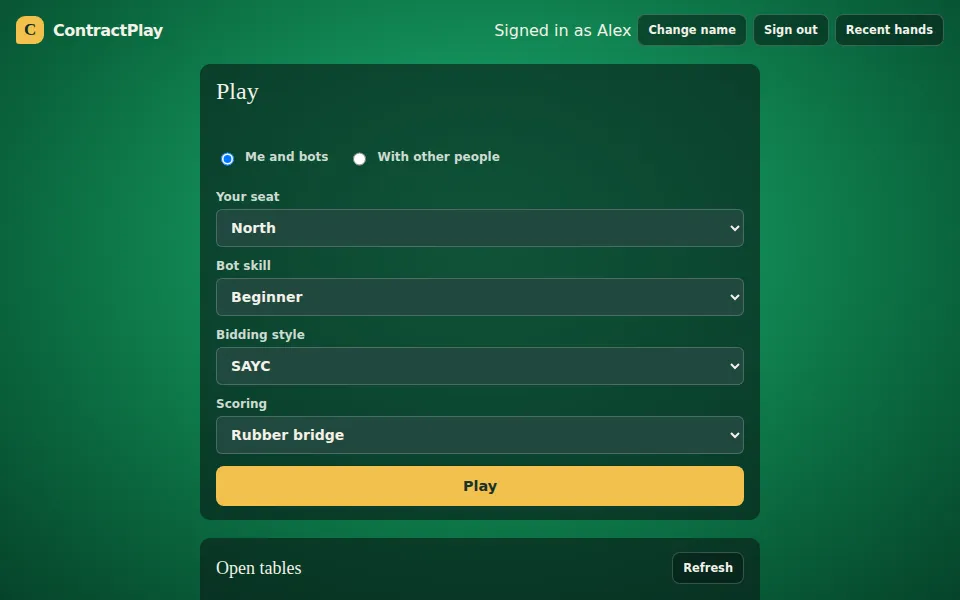
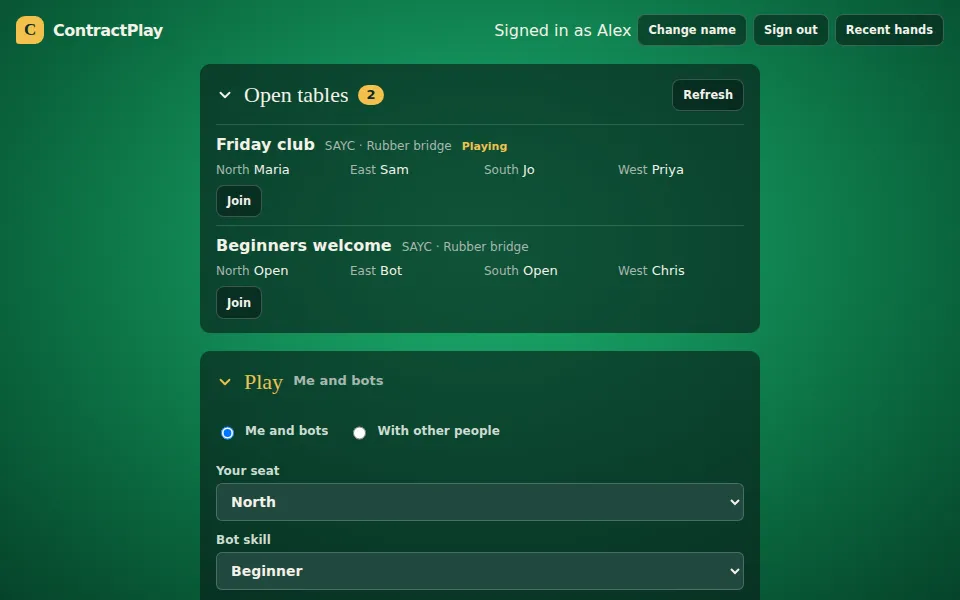
Put Open tables above Play in the lobby, both collapsed to their headers

diff --git a/apps/client/src/online/Lobby.tsx b/apps/client/src/online/Lobby.tsx
@@ -1,4 +1,4 @@
-import { useCallback, useEffect, useRef, useState } from "react";
+import { useCallback, useEffect, useRef, useState, type ReactNode } from "react";
 import { loadSoloData, type StorageLike } from "@contractplay/persistence";
 import { MAX_PLAYER_NAME, type SeatInfo, type TableScoring, type TableStyle, type TableSummary } from "@contractplay/protocol";
 import { seatNames, seats } from "../table/labels.js";
@@ -42,6 +42,8 @@ export type LobbyProps = {
   onRecentHands(): void;
   api?: LobbyApi;
   auth?: { currentAccount: typeof currentAccount; requestMagicLink: typeof requestMagicLink; signOut: typeof signOut; updateDisplayName?: typeof updateDisplayName; syncHistory?: typeof syncOnlineHands };
+  /** Opens Open tables and Play from the start; both are collapsed to their headers otherwise. */
+  expandedPanels?: boolean;
 };
 
 const defaultApi: LobbyApi = { listTables: defaultListTables, createTable: defaultCreateTable, createSession: defaultCreateSession };
@@ -58,7 +60,7 @@ function seatLabel(seat: SeatInfo): string {
 
 const defaultAuth = { currentAccount, requestMagicLink, signOut, updateDisplayName, syncHistory: syncOnlineHands };
 
-export function Lobby({ baseUrl, storage, onOpenTable, onPlaySolo, onRecentHands, api = defaultApi, auth = defaultAuth }: LobbyProps) {
+export function Lobby({ baseUrl, storage, onOpenTable, onPlaySolo, onRecentHands, api = defaultApi, auth = defaultAuth, expandedPanels = false }: LobbyProps) {
   const [identity] = useState<Identity | undefined>(() => loadIdentity(storage));
   const [account, setAccount] = useState<AccountSession | null>(null);
   const [accountResolved, setAccountResolved] = useState(false);
@@ -81,7 +83,7 @@ export function Lobby({ baseUrl, storage, onOpenTable, onPlaySolo, onRecentHands
   return <>
     {historyError ? <p className="error-message" role="status">Online history could not sync. Your local hands are still available; reopen Recent hands to retry.</p> : null}
     {signOutError ? <p className="error-message" role="alert">Couldn't sign out. Try again.</p> : null}
-    <LobbyTables identity={{ name: account.displayName }} baseUrl={baseUrl} api={api} storage={storage} onOpenTable={onOpenTable} onPlaySolo={onPlaySolo} onRecentHands={onRecentHands}
+    <LobbyTables expandedPanels={expandedPanels} identity={{ name: account.displayName }} baseUrl={baseUrl} api={api} storage={storage} onOpenTable={onOpenTable} onPlaySolo={onPlaySolo} onRecentHands={onRecentHands}
       account={account} onRename={async (name) => setAccount(await (auth.updateDisplayName ?? updateDisplayName)(name))} onSignOut={() => {
         void auth.signOut().then(() => { setAccount(null); setSignOutError(false); }).catch(() => setSignOutError(true));
       }} />
@@ -129,6 +131,16 @@ function MissionPanel() {
     </ul>
     <SignInTour />
   </section>;
+}
+
+/** A lobby panel's header: its title as a button that opens or closes the panel, with a chevron and a badge beside it. */
+function PanelToggle({ title, open, controls, badge, onToggle }: { title: string; open: boolean; controls: string; badge?: ReactNode; onToggle(): void }) {
+  return <h2 className="panel-toggle-heading">
+    <button type="button" className="panel-toggle" aria-expanded={open} aria-controls={controls} onClick={onToggle}>
+      <svg className="panel-chevron" viewBox="0 0 24 24" aria-hidden="true"><path d="m9 6 6 6-6 6" /></svg>
+      <span>{title}</span>{badge}
+    </button>
+  </h2>;
 }
 
 /** The online name form: saves the display name (keeping the device secret) and hands back the identity. */
@@ -180,8 +192,8 @@ function AccountName({ name, onRename }: { name: string; onRename(name: string):
   </form>;
 }
 
-function LobbyTables({ identity, baseUrl, storage, api, onOpenTable, onPlaySolo, onRecentHands, account, onRename, onSignOut }: {
-  identity: { name: string }; baseUrl: string; storage: StorageLike; api: LobbyApi; onOpenTable(id: string): void; onPlaySolo(): void; onRecentHands(): void;
+function LobbyTables({ expandedPanels, identity, baseUrl, storage, api, onOpenTable, onPlaySolo, onRecentHands, account, onRename, onSignOut }: {
+  expandedPanels: boolean; identity: { name: string }; baseUrl: string; storage: StorageLike; api: LobbyApi; onOpenTable(id: string): void; onPlaySolo(): void; onRecentHands(): void;
   account: AccountSession; onRename(name: string): Promise<void>; onSignOut(): void;
 }) {
   const [tables, setTables] = useState<TableSummary[] | undefined>();
@@ -195,6 +207,9 @@ function LobbyTables({ identity, baseUrl, storage, api, onOpenTable, onPlaySolo,
   // The Play panel always starts solo against bots, whatever solo was last left at.
   const [soloSetup, setSoloSetup] = useState<SoloSetup>(() => ({ ...loadSoloSetup(storage), opponents: "bots" }));
   // An unfinished solo hand resumes as it was set up; the panel's choices then wait for the next deal.
+  // Open tables and Play start collapsed to their headers; a click on a header opens its list or form.
+  const [tablesOpen, setTablesOpen] = useState(expandedPanels);
+  const [playOpen, setPlayOpen] = useState(expandedPanels);
   const [soloResumes] = useState(() => { const phase = loadSoloData(storage).currentGame?.phase; return phase === "auction" || phase === "play"; });
   const [sessionStyle, setSessionStyle] = useState<TableStyle>("SAYC");
   const [sessionTables, setSessionTables] = useState(2);
@@ -320,31 +335,13 @@ function LobbyTables({ identity, baseUrl, storage, api, onOpenTable, onPlaySolo,
             <button className="secondary-button" type="button" onClick={onRecentHands}>Recent hands</button>
           </span>
         </div>
-        <form className="lobby-panel" aria-label="Play" onSubmit={(event) => { event.preventDefault(); play(); }}>
-          <h2>Play</h2>
-          <div className="lobby-choice" role="radiogroup" aria-label="Who's playing">
-            <label className="lobby-check"><input type="radio" name="play-mode" checked={mode === "bots"} onChange={() => { setCreateError(undefined); setMode("bots"); }} />Me and bots</label>
-            <label className="lobby-check"><input type="radio" name="play-mode" checked={mode === "people"} onChange={() => { setCreateError(undefined); setMode("people"); }} />With other people</label>
-          </div>
-          {mode === "bots" ? <>
-            <label>Your seat<select aria-label="Your seat" value={soloSetup.seat} onChange={(event) => chooseSolo({ seat: event.target.value as SoloSetup["seat"] })}>{seats.map((seat) => <option key={seat} value={seat}>{seatNames[seat]}</option>)}</select></label>
-            <label>Bot skill<select aria-label="Bot skill" value={soloSetup.botSkill} onChange={(event) => chooseSolo({ botSkill: event.target.value as SoloSetup["botSkill"] })}><option value="beginner">Beginner</option><option value="intermediate">Intermediate</option><option value="advanced">Advanced</option><option value="expert">Expert</option></select></label>
-            <label>Bidding style<select aria-label="Bidding style" value={soloSetup.biddingStyle} onChange={(event) => chooseSolo({ biddingStyle: event.target.value as SoloSetup["biddingStyle"] })}><option value="SAYC">SAYC</option><option value="2/1">2/1</option></select></label>
-            {soloResumes ? <p className="quiet-copy">Your unfinished solo hand will resume; these settings apply from the next deal.</p> : null}
-            <label>Scoring<select aria-label="Scoring" value={soloSetup.scoring} onChange={(event) => chooseSolo({ scoring: event.target.value as SoloSetup["scoring"] })}><option value="rubber">Rubber bridge</option><option value="single">Single deals</option></select></label>
-          </> : <>
-            <label>Table name<input aria-label="Table name" value={effectiveName} maxLength={40} onChange={(event) => { setCreateError(undefined); setTableName(event.target.value); }} /></label>
-            <label>Bidding style<select aria-label="Bidding style" value={style} onChange={(event) => { setCreateError(undefined); setStyle(event.target.value as TableStyle); }}><option value="SAYC">SAYC</option><option value="2/1">2/1</option></select></label>
-            <label>Scoring<select aria-label="Scoring" value={scoring} onChange={(event) => { setCreateError(undefined); setScoring(event.target.value as TableScoring); }}><option value="rubber">{scoringNames.rubber}</option><option value="duplicate">{scoringNames.duplicate}</option></select></label>
-            <label className="lobby-check"><input type="checkbox" aria-label="Show in lobby" checked={listed} onChange={(event) => { setCreateError(undefined); setListed(event.target.checked); }} />Show in lobby</label>
-          </>}
-          <button className="primary-button" type="submit" disabled={creating || (mode === "people" && effectiveName.trim() === "")}>Play</button>
-        </form>
-        <div className="lobby-panel">
+        <section className={`lobby-panel collapsible-panel${tablesOpen ? " open" : ""}`} aria-label="Open tables">
           <div className="section-heading">
-            <h2>Open tables</h2>
-            <button className="secondary-button" type="button" onClick={() => { void refresh(); }}>Refresh</button>
+            <PanelToggle title="Open tables" open={tablesOpen} controls="lobby-open-tables" onToggle={() => setTablesOpen((open) => !open)}
+              badge={tables ? <span className="panel-count" aria-label={`${tables.length} open`}>{tables.length}</span> : null} />
+            {tablesOpen ? <button className="secondary-button" type="button" onClick={() => { void refresh(); }}>Refresh</button> : null}
           </div>
+          {tablesOpen ? <div id="lobby-open-tables" className="collapsible-body">
           {tables?.length === 0 ? <p className="quiet-copy">No open tables yet. Create one to start.</p> : null}
           <ul className="lobby-tables">
             {(tables ?? []).map((table) => (
@@ -363,7 +360,33 @@ function LobbyTables({ identity, baseUrl, storage, api, onOpenTable, onPlaySolo,
               </li>
             ))}
           </ul>
-        </div>
+          </div> : null}
+        </section>
+        <form className={`lobby-panel collapsible-panel${playOpen ? " open" : ""}`} aria-label="Play" onSubmit={(event) => { event.preventDefault(); play(); }}>
+          <div className="section-heading">
+            <PanelToggle title="Play" open={playOpen} controls="lobby-play" onToggle={() => setPlayOpen((open) => !open)}
+              badge={<span className="panel-hint">{mode === "bots" ? "Me and bots" : "With other people"}</span>} />
+          </div>
+          {playOpen ? <div id="lobby-play" className="collapsible-body">
+          <div className="lobby-choice" role="radiogroup" aria-label="Who's playing">
+            <label className="lobby-check"><input type="radio" name="play-mode" checked={mode === "bots"} onChange={() => { setCreateError(undefined); setMode("bots"); }} />Me and bots</label>
+            <label className="lobby-check"><input type="radio" name="play-mode" checked={mode === "people"} onChange={() => { setCreateError(undefined); setMode("people"); }} />With other people</label>
+          </div>
+          {mode === "bots" ? <>
+            <label>Your seat<select aria-label="Your seat" value={soloSetup.seat} onChange={(event) => chooseSolo({ seat: event.target.value as SoloSetup["seat"] })}>{seats.map((seat) => <option key={seat} value={seat}>{seatNames[seat]}</option>)}</select></label>
+            <label>Bot skill<select aria-label="Bot skill" value={soloSetup.botSkill} onChange={(event) => chooseSolo({ botSkill: event.target.value as SoloSetup["botSkill"] })}><option value="beginner">Beginner</option><option value="intermediate">Intermediate</option><option value="advanced">Advanced</option><option value="expert">Expert</option></select></label>
+            <label>Bidding style<select aria-label="Bidding style" value={soloSetup.biddingStyle} onChange={(event) => chooseSolo({ biddingStyle: event.target.value as SoloSetup["biddingStyle"] })}><option value="SAYC">SAYC</option><option value="2/1">2/1</option></select></label>
+            {soloResumes ? <p className="quiet-copy">Your unfinished solo hand will resume; these settings apply from the next deal.</p> : null}
+            <label>Scoring<select aria-label="Scoring" value={soloSetup.scoring} onChange={(event) => chooseSolo({ scoring: event.target.value as SoloSetup["scoring"] })}><option value="rubber">Rubber bridge</option><option value="single">Single deals</option></select></label>
+          </> : <>
+            <label>Table name<input aria-label="Table name" value={effectiveName} maxLength={40} onChange={(event) => { setCreateError(undefined); setTableName(event.target.value); }} /></label>
+            <label>Bidding style<select aria-label="Bidding style" value={style} onChange={(event) => { setCreateError(undefined); setStyle(event.target.value as TableStyle); }}><option value="SAYC">SAYC</option><option value="2/1">2/1</option></select></label>
+            <label>Scoring<select aria-label="Scoring" value={scoring} onChange={(event) => { setCreateError(undefined); setScoring(event.target.value as TableScoring); }}><option value="rubber">{scoringNames.rubber}</option><option value="duplicate">{scoringNames.duplicate}</option></select></label>
+            <label className="lobby-check"><input type="checkbox" aria-label="Show in lobby" checked={listed} onChange={(event) => { setCreateError(undefined); setListed(event.target.checked); }} />Show in lobby</label>
+          </>}
+          <button className="primary-button" type="submit" disabled={creating || (mode === "people" && effectiveName.trim() === "")}>Play</button>
+          </div> : null}
+        </form>
 
         <form className="lobby-panel" aria-label="New duplicate session" onSubmit={(event) => { event.preventDefault(); void createDuplicateSession(); }}>
           <h2>New duplicate session</h2>

diff --git a/apps/client/src/online/Lobby.test.tsx b/apps/client/src/online/Lobby.test.tsx
@@ -29,7 +29,8 @@ const summaries: TableSummary[] = [
 
 const signedIn = { currentAccount: async () => ({ playerId: "account-1", displayName: "Bob" }), requestMagicLink: async () => {}, signOut: async () => {} };
 
-function setup(options: { list?: () => Promise<TableSummary[]>; create?: () => Promise<{ id: string } | { error: string }>; named?: boolean; auth?: LobbyProps["auth"]; storage?: StorageLike } = {}) {
+/** Renders the lobby; its Open tables and Play panels start open unless `collapsed` keeps the real default. */
+function setup(options: { list?: () => Promise<TableSummary[]>; create?: () => Promise<{ id: string } | { error: string }>; named?: boolean; auth?: LobbyProps["auth"]; storage?: StorageLike; collapsed?: boolean } = {}) {
   const storage = options.storage ?? memoryStorage();
   if (options.named !== false) saveIdentity(storage, "Bob");
   const listTables = vi.fn(options.list ?? (() => Promise.resolve(summaries)));
@@ -42,13 +43,39 @@ function setup(options: { list?: () => Promise<TableSummary[]>; create?: () => P
     void input;
     return { sessionId: "SESSION1", tableIds: ["NEW123", "NEW456"] };
   });
-  render(<Lobby baseUrl="https://x.test" storage={storage} onOpenTable={onOpenTable} onPlaySolo={onPlaySolo} onRecentHands={onRecentHands} api={{ listTables, createTable, createSession }} auth={options.auth ?? signedIn} />);
+  render(<Lobby baseUrl="https://x.test" storage={storage} onOpenTable={onOpenTable} onPlaySolo={onPlaySolo} onRecentHands={onRecentHands} api={{ listTables, createTable, createSession }} auth={options.auth ?? signedIn} expandedPanels={!options.collapsed} />);
   return { storage, listTables, createTable, createSession, onOpenTable, onPlaySolo, onRecentHands };
 }
 
 afterEach(() => { cleanup(); vi.useRealTimers(); });
 
 describe("Lobby", () => {
+  it("shows Open tables above Play, both collapsed to their headers until clicked", async () => {
+    const { onPlaySolo } = setup({ collapsed: true });
+    const user = userEvent.setup();
+    const tablesToggle = await screen.findByRole("button", { name: /^Open tables/ });
+    const playToggle = screen.getByRole("button", { name: /^Play/ });
+    // Open tables comes first on the page.
+    expect(tablesToggle.compareDocumentPosition(playToggle) & Node.DOCUMENT_POSITION_FOLLOWING).toBeTruthy();
+    expect(tablesToggle.getAttribute("aria-expanded")).toBe("false");
+    expect(playToggle.getAttribute("aria-expanded")).toBe("false");
+    // Collapsed, the headers carry the table count and the chosen mode; the list and form stay hidden.
+    expect(await screen.findByLabelText("2 open")).toBeTruthy();
+    expect(playToggle.textContent).toContain("Me and bots");
+    expect(screen.queryByText("Friday club")).toBeNull();
+    expect(screen.queryByRole("radio", { name: "Me and bots" })).toBeNull();
+    expect(screen.queryByRole("button", { name: "Refresh" })).toBeNull();
+    await user.click(tablesToggle);
+    expect(tablesToggle.getAttribute("aria-expanded")).toBe("true");
+    expect(screen.getByText("Friday club")).toBeTruthy();
+    expect(screen.getByRole("button", { name: "Refresh" })).toBeTruthy();
+    await user.click(playToggle);
+    await user.click(screen.getByRole("button", { name: "Play" }));
+    expect(onPlaySolo).toHaveBeenCalledTimes(1);
+    await user.click(tablesToggle);
+    expect(screen.queryByText("Friday club")).toBeNull();
+  });
+
   it("changes the account name from the lobby and uses it for new table names", async () => {
     const updateDisplayName = vi.fn(async (name: string) => ({ playerId: "account-1", displayName: name.trim() }));
     setup({ auth: { ...signedIn, updateDisplayName } });

diff --git a/apps/client/src/styles.css b/apps/client/src/styles.css
@@ -493,6 +493,20 @@ button.dummy-card { cursor: pointer; transition: transform .12s ease; }
 .tour-dots button { width: 8px; height: 8px; border: 0; border-radius: 50%; padding: 0; background: rgba(255, 255, 255, .3); cursor: pointer; }
 .tour-dots button.current { background: var(--gold); }
 .tour-dots button:focus-visible { outline: 2px solid var(--gold); outline-offset: 2px; }
+/* Open tables and Play start collapsed to a header: the title is a button with a chevron and a count or the chosen mode. */
+.collapsible-panel { gap: 0; }
+.collapsible-panel .section-heading { gap: 10px; margin-bottom: 0; }
+.collapsible-panel.open .section-heading { margin-bottom: 12px; }
+.collapsible-body { display: grid; gap: 12px; }
+.panel-toggle-heading { flex: 1; min-width: 0; }
+.panel-toggle { display: flex; align-items: center; gap: 10px; width: 100%; border: 0; padding: 4px 0; background: none; color: var(--ink); font: inherit; font-size: 22px; text-align: left; cursor: pointer; }
+.panel-toggle:hover, .panel-toggle:focus-visible { color: var(--gold); }
+.panel-toggle:focus-visible { outline: 2px solid var(--gold); outline-offset: 3px; border-radius: 4px; }
+.panel-chevron { flex: none; width: 18px; height: 18px; fill: none; stroke: currentColor; stroke-width: 2.5; stroke-linecap: round; stroke-linejoin: round; transition: transform .15s; }
+.panel-toggle[aria-expanded="true"] .panel-chevron { transform: rotate(90deg); }
+.panel-count { min-width: 24px; border-radius: 999px; padding: 2px 8px; background: var(--gold); color: var(--deep); font: 800 13px/1.3 system-ui, sans-serif; text-align: center; }
+.panel-hint { color: var(--muted); font: 600 13px/1.3 system-ui, sans-serif; }
+@media (prefers-reduced-motion: reduce) { .panel-chevron { transition: none; } }
 .lobby-panel label { display: grid; gap: 5px; color: #cfdbd1; font-size: 12px; font-weight: 600; }
 .lobby-panel input:not([type="checkbox"]), .lobby-panel select { min-width: 0; height: 38px; border: 1px solid rgba(230, 235, 225, .22); border-radius: 6px; padding: 0 10px; background: #21483e; color: var(--ink); font-size: 14px; }
 .lobby-panel .lobby-check { display: flex; align-items: center; gap: 8px; }

diff --git a/apps/client/src/Root.test.tsx b/apps/client/src/Root.test.tsx
@@ -36,7 +36,9 @@ describe("Root", () => {
     location.hash = "#/online";
     render(<Root />);
     expect(await screen.findByText("Open tables")).toBeTruthy();
-    await userEvent.setup().click(screen.getByRole("button", { name: "Play" }));
+    const user = userEvent.setup();
+    await user.click(screen.getByRole("button", { name: /^Play/, expanded: false }));
+    await user.click(screen.getByRole("button", { name: "Play" }));
     expect(location.hash).toBe("#/solo");
     await vi.waitFor(() => expect(loadSoloData(window.localStorage).handsStarted).toBe(1));
     expect(soloVisible()).toBe(false);
@@ -46,7 +48,9 @@ describe("Root", () => {
     const { loadSoloData, saveSoloData } = await import("@contractplay/persistence");
     location.hash = "#/online";
     render(<Root />);
-    await userEvent.setup().click(await screen.findByRole("button", { name: "Play" }));
+    const user = userEvent.setup();
+    await user.click(await screen.findByRole("button", { name: /^Play/, expanded: false }));
+    await user.click(screen.getByRole("button", { name: "Play" }));
     await vi.waitFor(() => expect(loadSoloData(window.localStorage).handsStarted).toBe(1));
     await act(async () => { location.hash = "#/online"; });
     expect(await screen.findByText("Open tables")).toBeTruthy();

diff --git a/apps/client/src/mocks/Previews.test.tsx b/apps/client/src/mocks/Previews.test.tsx
@@ -13,10 +13,16 @@ const surface = () => document.querySelector(".table-surface");
 /** What each preview must actually show, so a change that breaks a screen fails here instead of drifting. */
 const expectations: Record<string, () => Promise<void> | void> = {
   lobby: async () => {
-    await screen.findByRole("heading", { name: "Open tables" });
+    // Open tables sits above Play, and both open collapsed to their headers.
+    const tables = await screen.findByRole("button", { name: /^Open tables/, expanded: false });
+    const playToggle = screen.getByRole("button", { name: /^Play/, expanded: false });
+    expect(tables.compareDocumentPosition(playToggle) & Node.DOCUMENT_POSITION_FOLLOWING).toBeTruthy();
     expect(screen.getByRole("button", { name: "Recent hands" })).toBeTruthy();
     expect(screen.getByText("Signed in as Alex")).toBeTruthy();
     expect(screen.getByRole("button", { name: "Change name" })).toBeTruthy();
+    const user = userEvent.setup();
+    await user.click(tables);
+    await user.click(playToggle);
     const play = screen.getByRole("form", { name: "Play" });
     expect(within(play).getByRole("radio", { name: "Me and bots" })).toBeTruthy();
     expect(within(play).getByRole("radio", { name: "With other people" })).toBeTruthy();

diff --git a/apps/client/src/online/Auth.test.tsx b/apps/client/src/online/Auth.test.tsx
@@ -50,11 +50,12 @@ it("restores the account after callback and returns to the sign-in gate on sign-
   const { fetcher } = setup(true, true);
   const user = userEvent.setup();
   expect(await screen.findByText("Signed in as Account")).toBeTruthy();
+  await user.click(screen.getByRole("button", { name: /^Play/, expanded: false }));
   await user.click(screen.getByRole("radio", { name: "With other people" }));
   expect((screen.getByLabelText("Table name") as HTMLInputElement).value).toBe("Account's table");
   await user.click(screen.getByRole("button", { name: "Sign out" }));
   expect(await screen.findByLabelText("Email sign-in")).toBeTruthy();
-  expect(screen.queryByRole("button", { name: "Play" })).toBeNull();
+  expect(screen.queryByRole("button", { name: /^Play/ })).toBeNull();
   expect(fetcher.mock.calls.find(([url]) => url === "/api/auth/sign-out")?.[1]?.credentials).toBe("same-origin");
 });
 

diff --git a/apps/client/src/mocks/scenarios.ts b/apps/client/src/mocks/scenarios.ts
@@ -142,7 +142,7 @@ const others = (seat: Seat) => SEATS.filter((s) => s !== seat);
 
 const onlineScreens: readonly PreviewScreen[] = [
   {
-    id: "lobby", title: "Lobby", detail: "Signed in as Alex with Change name, the Play panel (Me and bots, or With other people), and open tables (one mid-hand, one with open seats). Renaming here changes only the preview.",
+    id: "lobby", title: "Lobby", detail: "Signed in as Alex with Change name; Open tables (one mid-hand, one with open seats) above the Play panel (Me and bots, or With other people), both collapsed to their headers until clicked. Renaming here changes only the preview.",
     build: () => {
       const playing = dealt(table("Friday club", { north: "Maria", east: "Sam", south: "Jo", west: "Priya" }));
       const open = table("Beginners welcome", { west: "Chris" }, ["east"]);

diff --git a/README.md b/README.md
@@ -87,7 +87,7 @@ Hints are off by default. Suggestions are the Expert bot's choice in the selecte
 
 Online tables let four people, with bots filling any empty seats, play one table together. They are live at https://contractplay.niuk.workers.dev. To try them locally, run `pnpm server:dev` and open http://localhost:8787.
 
-- **Lobby and guests.** The online deployment opens on the online lobby; sign in with an email magic link to see open tables, the **Play** panel (**Me and bots**, which deals a solo hand on this device and resumes one still in progress, or **With other people**, which creates an online table), and the duplicate session form. Solo remembers its opponents, seat, bot skill, and bidding style, and starts against bots when nothing is saved. A table can be unlisted and then is reachable only by its link, `<address>/#/table/<id>`. Direct table links still support guest play with a display name; the browser keeps a device secret in local storage that the service stores only as a hash. Clearing browser data or switching device loses an unlinked guest seat. A development build without an online service opens solo play directly.
+- **Lobby and guests.** The online deployment opens on the online lobby; sign in with an email magic link to see **Open tables** and, under it, the **Play** panel. Both start collapsed to their headers (Open tables shows how many tables are open, Play the mode last chosen); click a header to open its table list or setup form, and again to close it. Play offers (**Me and bots**, which deals a solo hand on this device and resumes one still in progress, or **With other people**, which creates an online table); the duplicate session form follows. Solo remembers its opponents, seat, bot skill, and bidding style, and starts against bots when nothing is saved. A table can be unlisted and then is reachable only by its link, `<address>/#/table/<id>`. Direct table links still support guest play with a display name; the browser keeps a device secret in local storage that the service stores only as a hash. Clearing browser data or switching device loses an unlinked guest seat. A development build without an online service opens solo play directly.
 - **Email accounts.** Choose **Sign in or register** to receive a single-use link valid for 15 minutes. Under the email form, a short panel says what ContractPlay is for: following your game over time, with replayed deals compared in IMPs, Auto play to let a bot finish a dull hand, every finished hand kept on your account, and bots with hints that explain calls. Under those points a short tour crossfades through seven screenshots of the table (hints, declaring, the last trick, Auto play, the result with the auction, a replayed deal's IMPs, and the lobby), about four seconds each; it pauses while you hover over it, stays still when your system asks for reduced motion, and a click opens that screen's preview. The screenshots come from the previews: after a visible change to one of them, run `node scripts/capture-sign-in-tour.mjs` against `pnpm web:dev` (see the script for its Playwright setup) to retake them. Open it in the browser you want to sign in; the session lasts 30 days, and **Sign out** ends only that browser's session. Starting sign-in from an existing guest browser links that guest identity after email verification. Your account name is set when the account is created: the guest name already saved in that browser, or "Player" if there is none. **Change name** next to "Signed in as" in the lobby renames the account (up to 20 characters) on every device; a table you are seated at shows the new name when you next open or rejoin it. Signing into the same account on another device recovers its linked seat. If several linked identities occupy one table, the app asks you to have the host free the extra seat between hands before reopening it. Sign-in requires the deployment setup linked above; the check-email message deliberately does not confirm account existence or mail delivery.
 - **Recent hands.** The lobby and online game menu open hand history for review and PBN export. Completed online hands are saved when the table page is open at completion, with the seat you played; passed-out hands are not saved. Guests keep the most recent 25 local hands alongside solo hands. Signed-in players also sync a personal archive of their newest 25 online hands and, separately, their newest 25 solo hands on dealt or replayed deals across devices, including hands already saved in the current browser. Uploads are unverified personal records and never affect duplicate standings. Solo hands from imported files, board sets and "Play this deal again", unfinished solo play, settings, and the board-set library stay on the device. Network failures keep local history available for a later retry. **Delete** removes only the browser copy; an archived account hand returns on the next sync because server deletion is not implemented.
 

diff --git a/CHANGES.md b/CHANGES.md
@@ -2,6 +2,7 @@
 
 ## Unreleased
 
+- **Open tables first, and the lobby's panels fold away.** In the online lobby, **Open tables** now comes before **Play**, and both start collapsed to their headers: Open tables shows how many tables are open in a gold badge, and Play shows the mode you last chose (Me and bots or With other people). Click a header (or use the keyboard) to open its table list or setup form, and again to close it; the chevron turns to show which are open, and **Refresh** appears once the table list is open. The duplicate session form is unchanged. Preview 1 (Lobby) shows the collapsed panels, and the sign-in tour's lobby slide shows them open.
 - **A tour of the table on the sign-in screen.** Under the sign-in panel's four points, a short tour now crossfades through seven screenshots of the table: hints explaining a call, declaring with dummy, the last trick laid out, Auto play, the result with the auction beside the face-up hands, a replayed deal scored in IMPs, and the lobby. Each shows for about four seconds with a caption and dots to jump between them; it pauses while you hover over or focus it, does not advance on its own when your system asks for reduced motion, and clicking a slide opens that screen's preview. Only the shown slide and the next one are loaded. `scripts/capture-sign-in-tour.mjs` retakes the screenshots from the previews.
 - **Autopilot on the sign-in screen.** The sign-in panel's second point is now **Autopilot when you need it**: if a hand is dull or you're tired, switch on Auto play at any point in the bidding or the play and a bot finishes the hand for you. It replaces **Score against the field**, which hasn't been tried in a real game yet.
 - **A smaller status card.** The contract, NS/EW trick counter, score, and whose-turn line in the top-right corner now sit in a tighter card with less padding, a smaller contract badge, and smaller text, so it takes up less of the table at solo and online tables. README screenshots refreshed.
